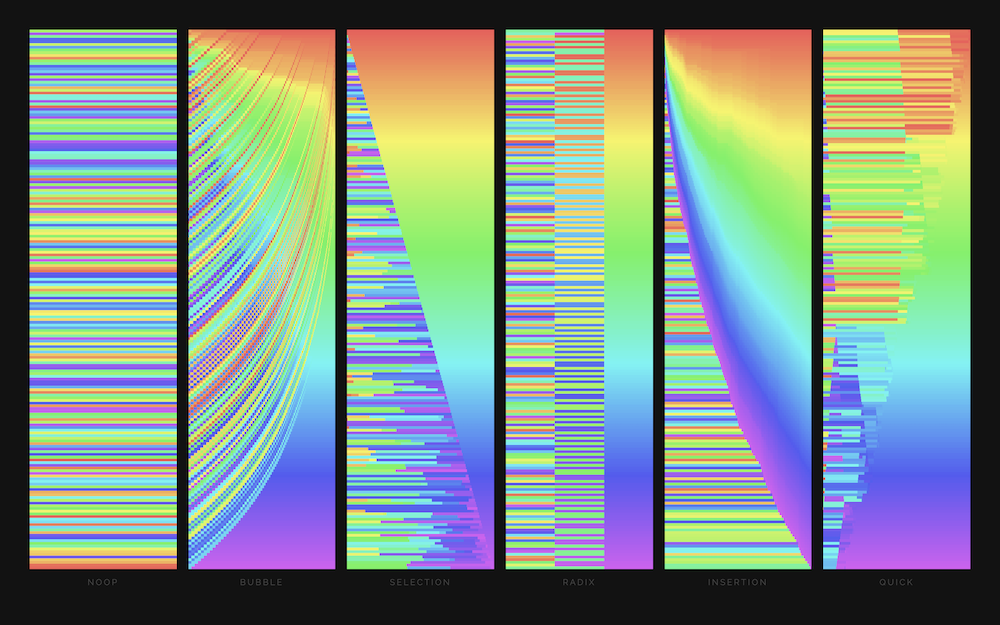
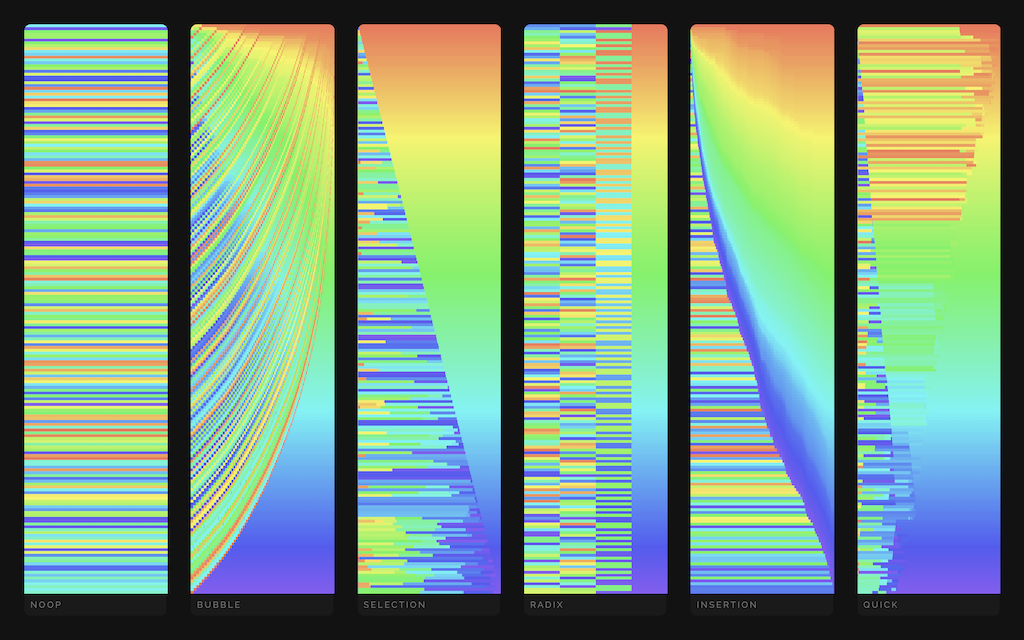
Style tweaks, updated screenshot, prepend initial dataset to the sort datasets

diff --git a/index.html b/index.html
@@ -8,6 +8,7 @@
     <style>
     * {
         box-sizing: border-box;
+        margin: 0; padding: 0;
     }
     html, body {
         width: 100%;
@@ -22,34 +23,49 @@
         flex-direction: row;
         align-items: stretch;
         overflow: hidden;
-        padding: 40px;
-    }
-    div:first-child {
-        flex: 1 0 1px !important;
+        padding: 20px;
     }
     div {
-        margin: 10px;
+        padding: 20px;
         flex: 1 0 0px;
+        min-height: 0;
+
+        position: relative;
         display: flex;
         justify-content: center;
-        align-items: center;
+        align-items: stretch;
         flex-direction: column;
-        color: #444;
+
+        color: #777;
         overflow: hidden;
     }
     div p {
+        background: #1a1a1a;
         font-size: 14px;
         text-transform: uppercase;
         letter-spacing: 3px;
         transition: 0.6s;
         font-weight: 200;
+        padding: 10px;
+        border-radius: 0px 0px 10px 10px;
     }
     canvas {
-        /*overflow: hidden;*/
+        min-height: 0; /* fixes issue in firefox */
+        padding: 0;
+        margin: 0;
         transition: 0.3s;
         height: 100%;
         width: calc(100% + 2px);
+        border-radius: 10px 10px 0px 0px;
+
+        image-rendering: optimizeSpeed;
+        image-rendering: -moz-crisp-edges;
+        image-rendering: -o-crisp-edges;
+        image-rendering: -webkit-optimize-contrast;
+        image-rendering: optimize-contrast;
+        image-rendering: crisp-edges;
         image-rendering: pixelated;
+        -ms-interpolation-mode: nearest-neighbor;
     }
     </style>
 </head>
@@ -108,16 +124,13 @@
         function wrapper(fn) { return () => {
             let data = generate(size);
             let result = Array.from(fn(data), (x) => x.slice(0));
-            if (result.length % 2 == 0) {
-                result.push(result[result.length-1]);
-            }
-            return result;
+            return [data].concat(result);
         }}
 
         // The sort functions were stolen almost as-is from various parts of the internet
         return {
             noop: wrapper(function* (arr) {
-                yield arr.slice(0);
+                yield arr;
                 return;
             }),
             bubble: wrapper(function* (arr) {
